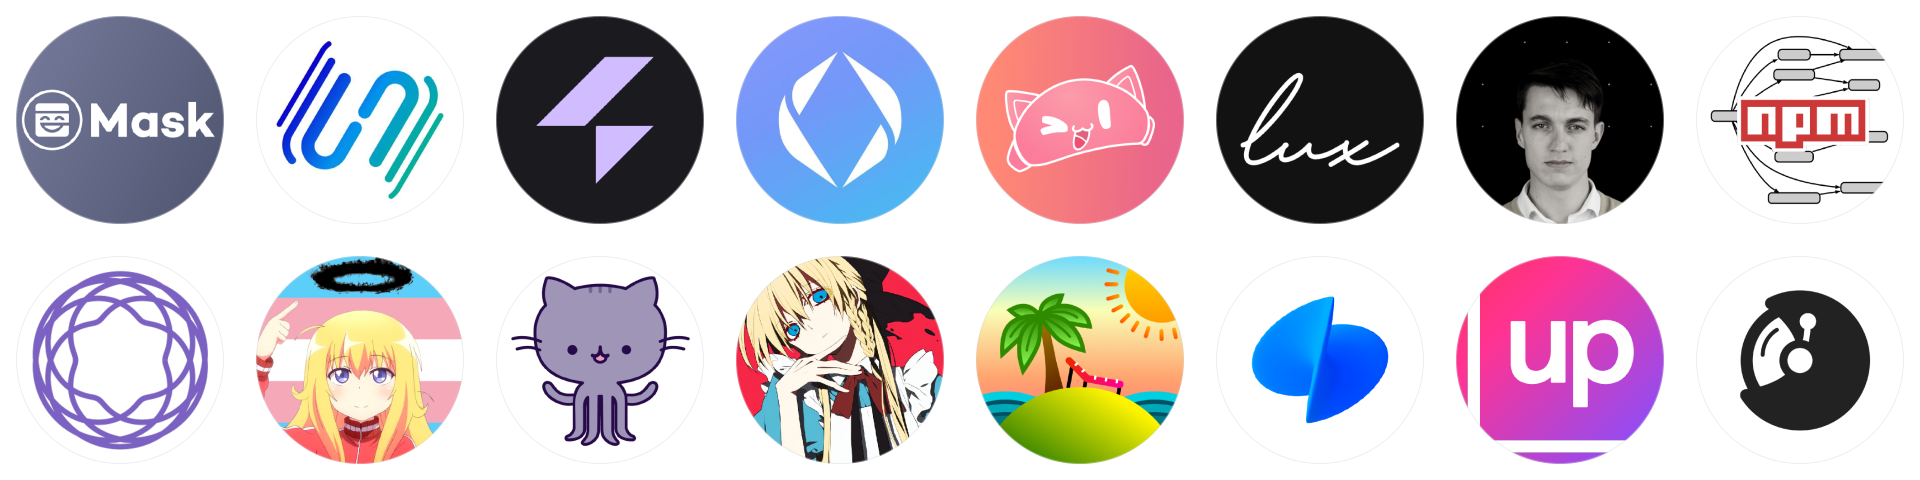
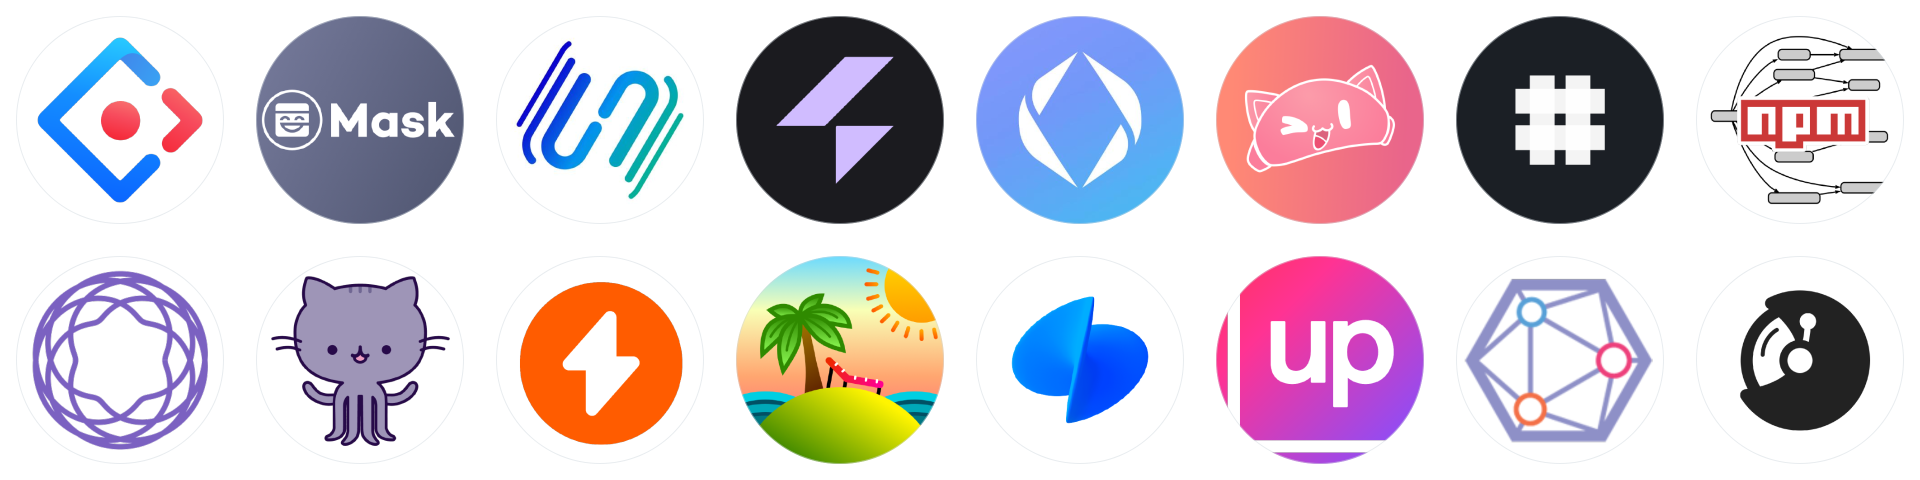
docs: update 'Used by' and 'Also available in' on readme and website

diff --git a/scripts/build-used-by.ts b/scripts/build-used-by.ts
@@ -1,0 +1,84 @@
+/* eslint-disable no-mixed-operators */
+import fs from "node:fs/promises";
+
+import { createCanvas, loadImage } from "@napi-rs/canvas";
+import { ofetch } from "ofetch";
+
+const projects = [
+  "ant-design/ant-design",
+  "DimensionDev/Maskbook",
+  "dream-num/univer",
+  "electric-sql/pglite",
+  "ensdomains/ensdomains-landing",
+  "flirtual/flirtual",
+  "hashintel/hash",
+  "npmgraph/npmgraph",
+  "react-navigation/react-navigation",
+  "refined-github/refined-github",
+  "RSSNext/Follow",
+  "TanStack/query",
+  "toss/suspensive",
+  "upleveled/eslint-config-upleveled",
+  "XYOracleNetwork/sdk-xyo-react-js",
+  "zolplay-cn/config-monorepo",
+];
+
+interface GitHubRepo {
+  owner: {
+    avatar_url: string;
+  };
+}
+
+async function fetchGitHubAvatar(repo: string, token?: string): Promise<string> {
+  if (token == null) {
+    throw new Error("GitHub token is required");
+  }
+  const data = await ofetch<GitHubRepo>(`https://api.github.com/repos/${repo}`, {
+    headers: {
+      Authorization: `token ${token}`,
+    },
+  });
+  return data.owner.avatar_url;
+}
+
+async function buildUsedByImage(users: string[]) {
+  const gap = 64;
+  const width = 3840;
+  const height = Math.ceil(users.length / 8) * (width / 8);
+  const getItemX = (index: number) => index % 8 * (width / 8) + gap / 2;
+  const getItemY = (index: number) => Math.floor(index / 8) * (width / 8) + gap / 2;
+  const canvas = createCanvas(width, height);
+  const ctx = canvas.getContext("2d", { alpha: true, colorSpace: "srgb" });
+  ctx.fillStyle = "#FFFFFF00";
+  ctx.fillRect(0, 0, width, height);
+  for (const [index, avatar] of users.entries()) {
+    const x = getItemX(index);
+    const y = getItemY(index);
+    const image = await loadImage(avatar);
+    ctx.save();
+    ctx.beginPath();
+    ctx.arc(x + (width / 8 - gap) / 2, y + (width / 8 - gap) / 2, (width / 8 - gap) / 2, 0, Math.PI * 2);
+    ctx.closePath();
+    ctx.clip();
+    ctx.fillStyle = "#ffffff";
+    ctx.fillRect(x, y, width / 8 - gap, width / 8 - gap);
+    ctx.drawImage(image, x, y, width / 8 - gap, width / 8 - gap);
+    ctx.strokeStyle = "#d1d9e080";
+    ctx.lineWidth = 4;
+    ctx.stroke();
+    ctx.restore();
+  }
+  const displayWidth = width / 2;
+  const displayHeight = height / 2;
+  const displayCanvas = createCanvas(displayWidth, displayHeight);
+  const displayCtx = displayCanvas.getContext("2d", { alpha: true, colorSpace: "srgb" });
+  displayCtx.drawImage(canvas, 0, 0, displayWidth, displayHeight);
+  return displayCanvas.encode("png");
+}
+
+const token = process.env["GITHUB_TOKEN"];
+const avatars = await Promise.all(projects.map(async (repo) => fetchGitHubAvatar(repo, token)));
+const avatarsDeDup = Array.from(new Set(avatars));
+const img = await buildUsedByImage(avatarsDeDup);
+await fs.writeFile("website/assets/used_by.png", img);
+await fs.writeFile("website/public/used_by.png", img);

diff --git a/README.md b/README.md
@@ -114,6 +114,7 @@ export default tseslint.config({
 ### Also available in
 
 - [`antfu/eslint-config`](https://github.com/antfu/eslint-config) - Anthony's ESLint config preset.
+- [`eslint-config-rebeccastevens`](https://github.com/RebeccaStevens/eslint-config-rebeccastevens) - Rebecca's ESLint config preset.
 - [`eslint-config-sheriff`](https://github.com/AndreaPontrandolfo/sheriff) - A comprehensive and opinionated Typescript-first ESLint configuration.
 - [`eslint-config-sukka`](https://github.com/SukkaW/eslint-config-sukka) - Sukka's ESLint config preset.
 

diff --git a/packages/plugins/eslint-plugin/README.md b/packages/plugins/eslint-plugin/README.md
@@ -114,6 +114,7 @@ export default tseslint.config({
 ### Also available in
 
 - [`antfu/eslint-config`](https://github.com/antfu/eslint-config) - Anthony's ESLint config preset.
+- [`eslint-config-rebeccastevens`](https://github.com/RebeccaStevens/eslint-config-rebeccastevens) - Rebecca's ESLint config preset.
 - [`eslint-config-sheriff`](https://github.com/AndreaPontrandolfo/sheriff) - A comprehensive and opinionated Typescript-first ESLint configuration.
 - [`eslint-config-sukka`](https://github.com/SukkaW/eslint-config-sukka) - Sukka's ESLint config preset.
 
